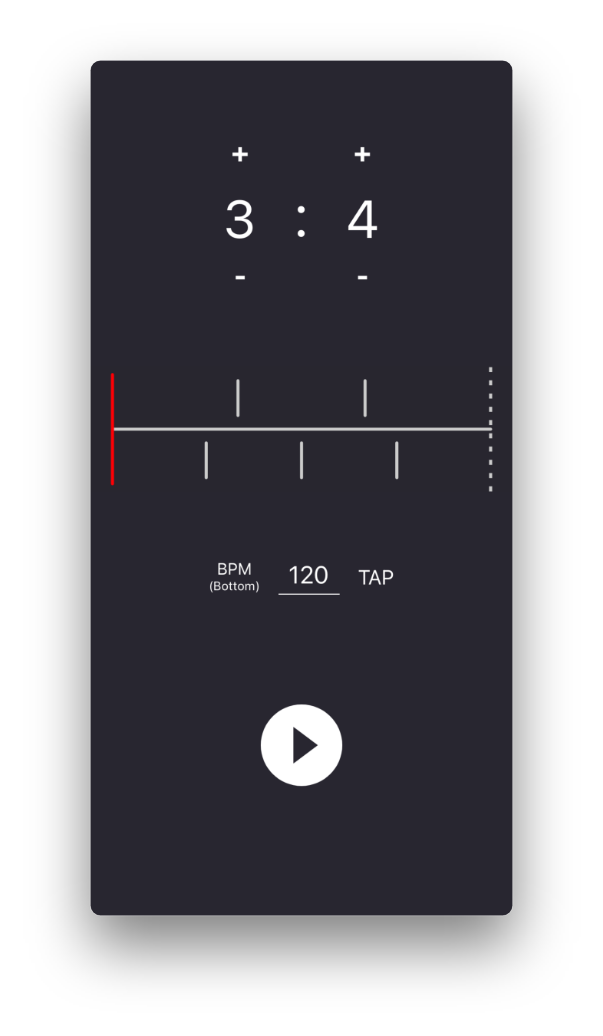
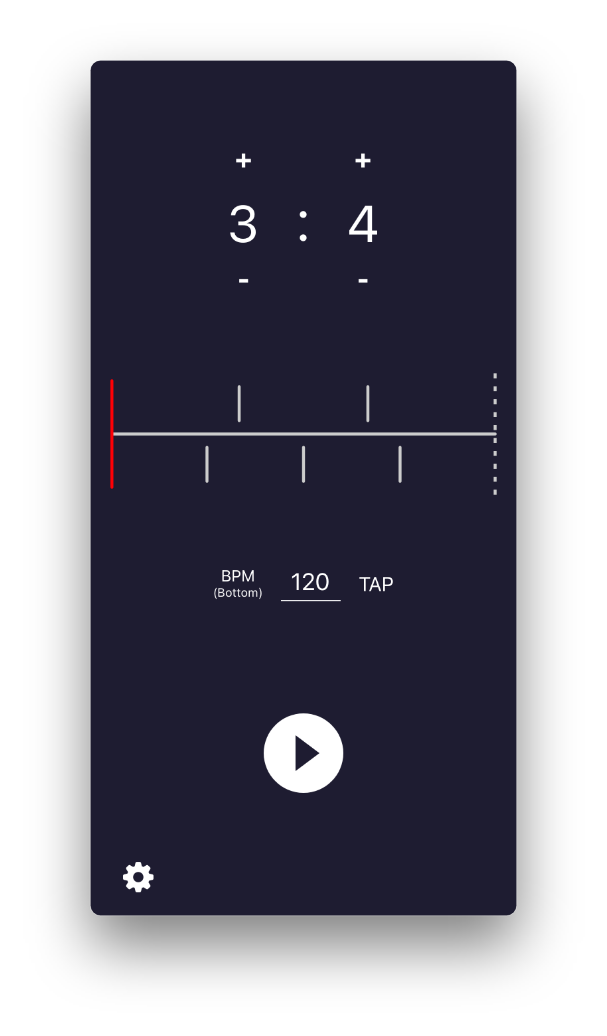
Change Poly section's image and background color

diff --git a/static/css/homepage.css b/static/css/homepage.css
@@ -327,12 +327,12 @@ body {
 }
 
 .PolyrhythmSection {
-	background-color: #33313A;
+	background-color: #F5F5F7;
 }
 
 .PolyrhythmIntroWrapper {
 	text-align: center;
-	color: #FFFFFF;
+	color: #000000;
 }
 
 .PolyrhythmTitle {
